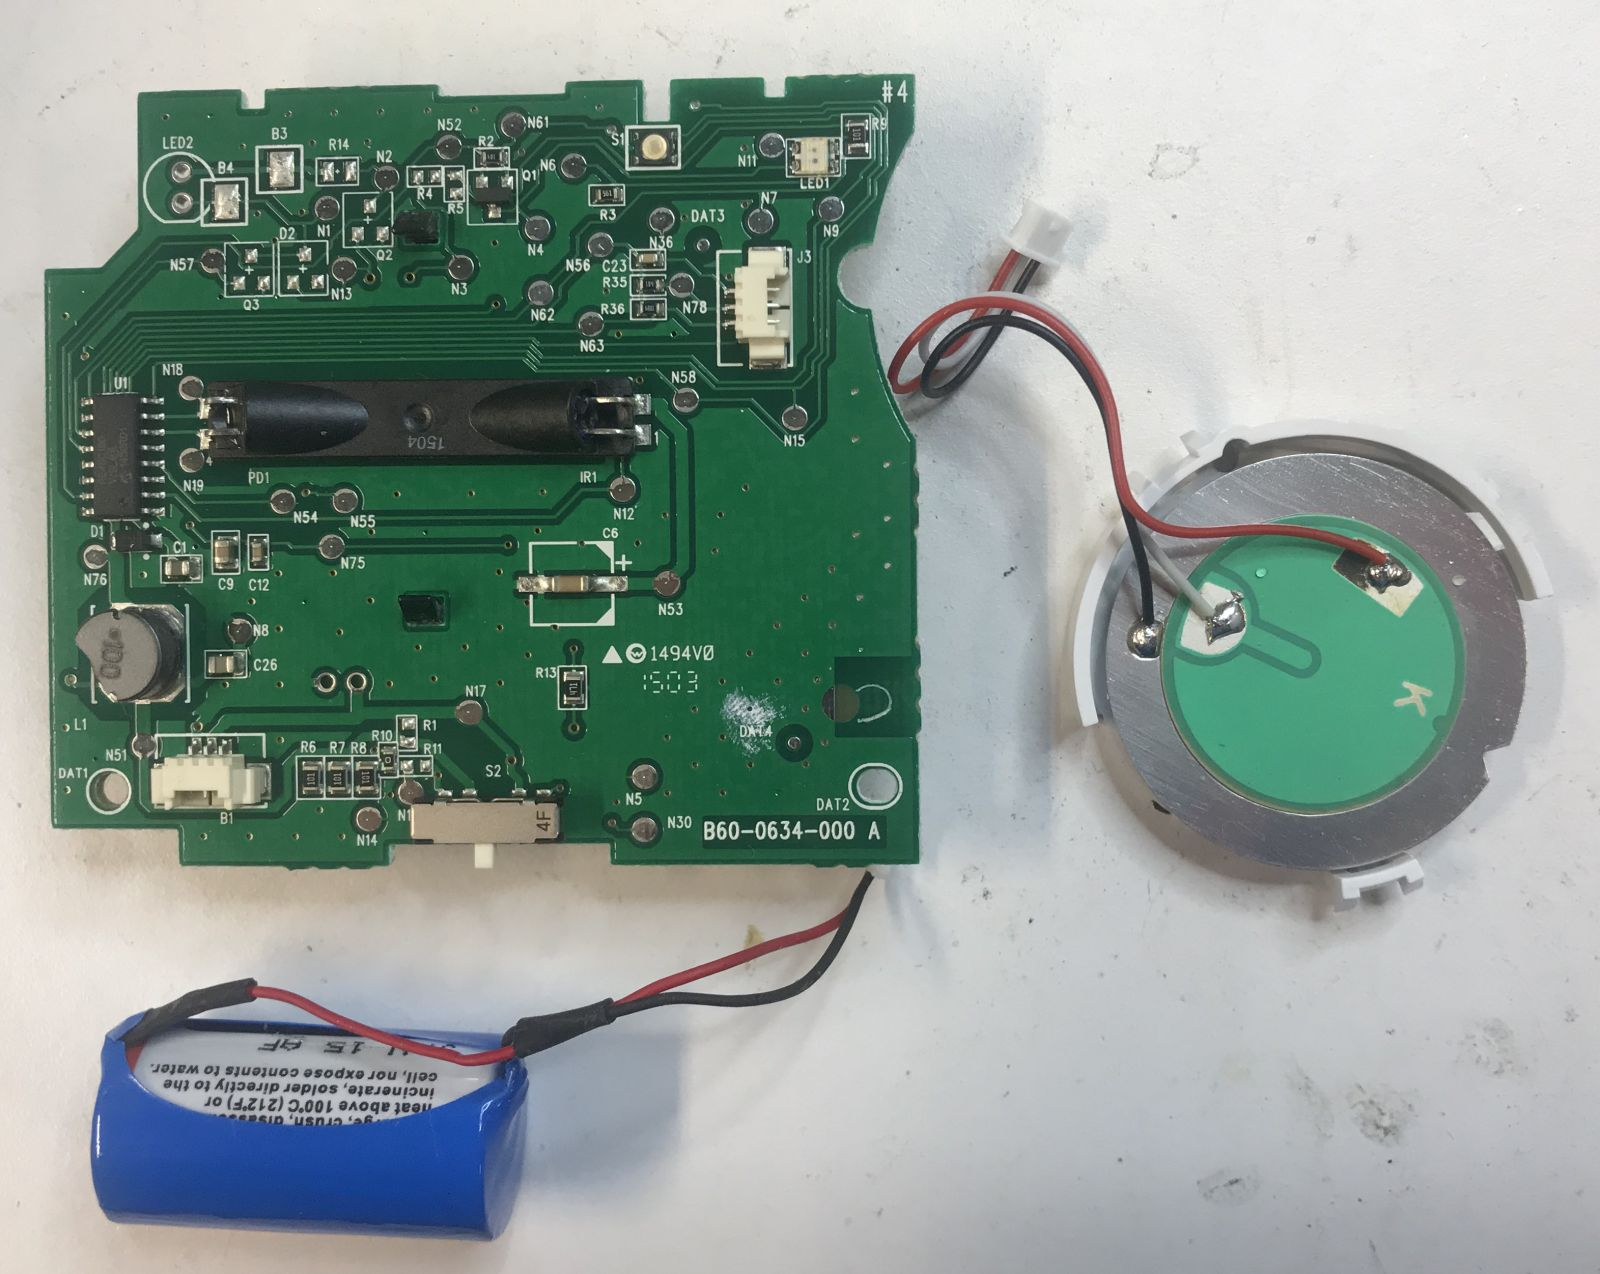
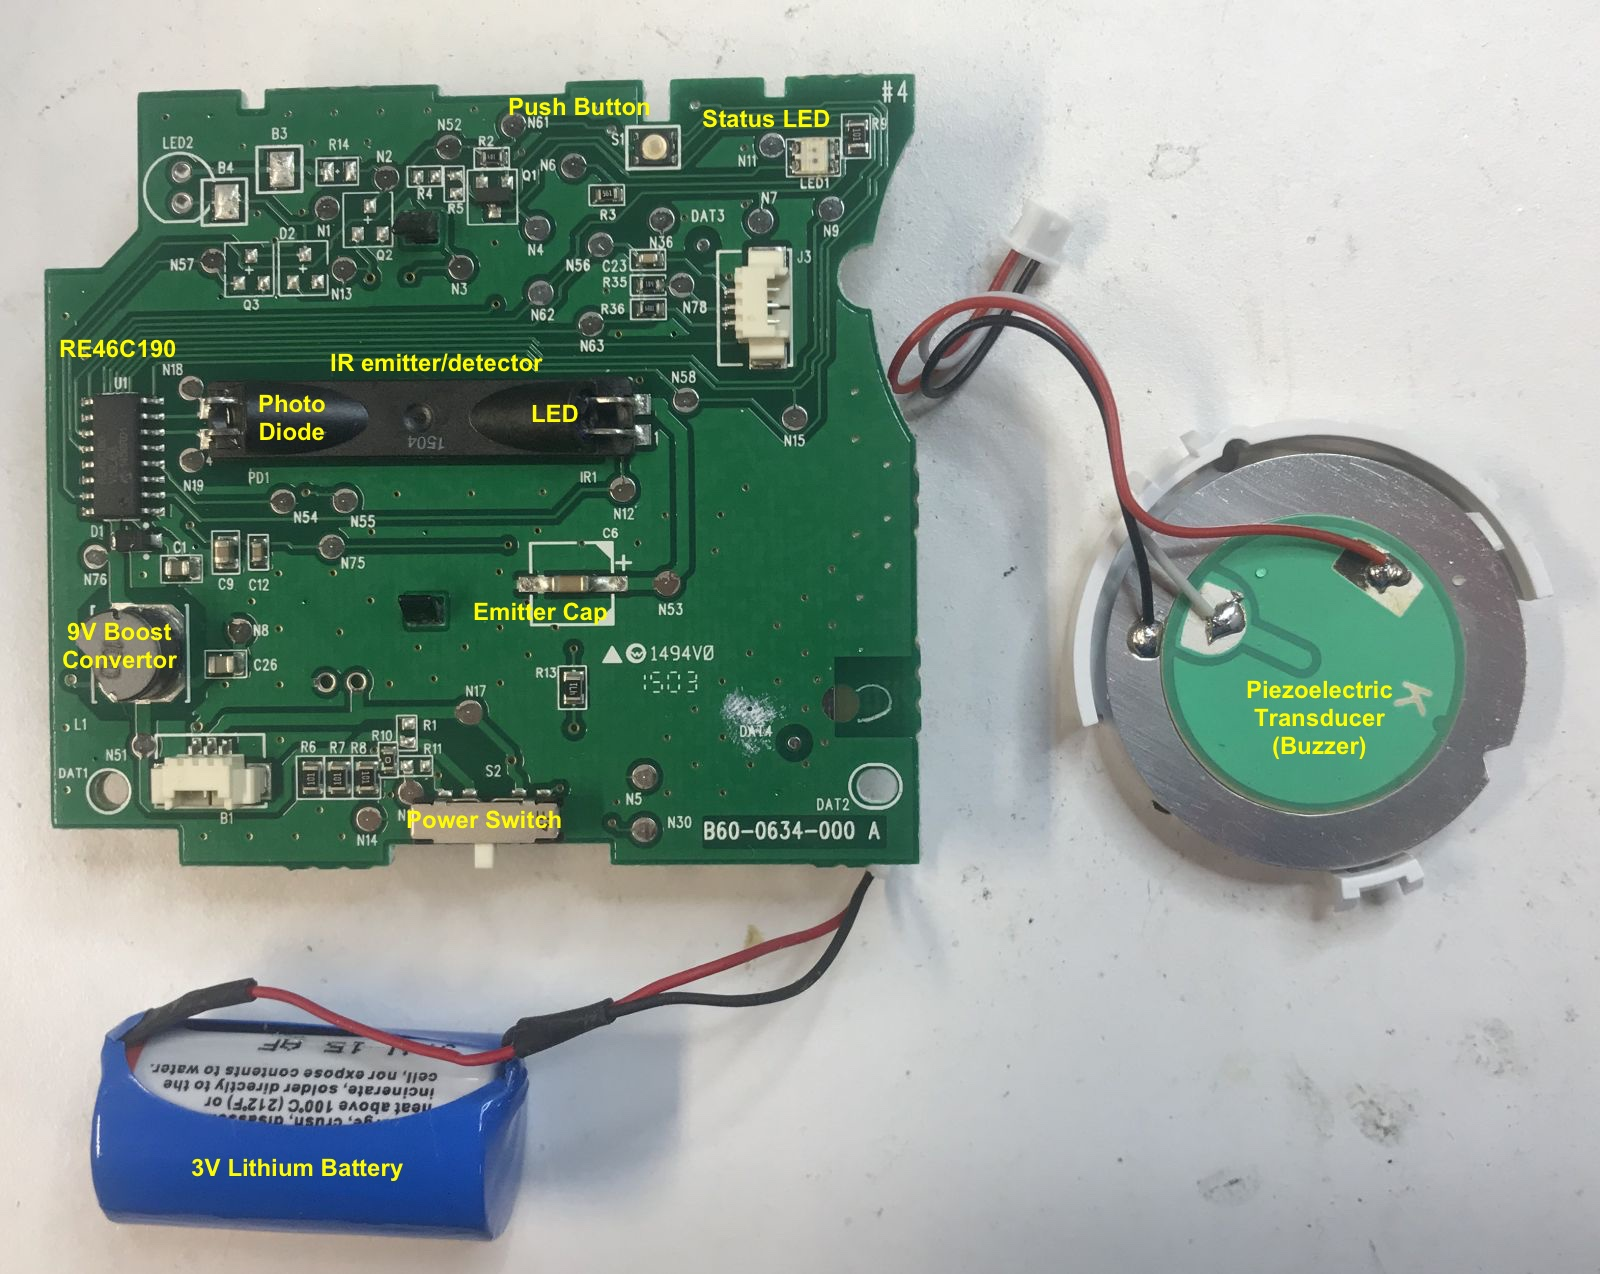
Smoke detector post complete.

diff --git a/_posts/2020-04-04-Smoke-Detector.md b/_posts/2020-04-04-Smoke-Detector.md
@@ -1,14 +1,13 @@
 ---
 layout: post
-title: Smoke Detector Disassembly
-date:  2020-04-04 00:00:00 -0700
+title: Taking Apart a Smoke Detector
+date:  2020-04-10 00:00:00 -0700
 categories:
 ---
 
-*Whereby I descend into a rabbit hole...*
-
-The smoke detector in our laundry room (hopefully soon to be hobby room!) started to beep with yesterday,
-even though there was no smoke to be seen. If I'm reading the manual correctly, it's a low battery condition.
+The smoke detector in our laundry room/cat mansion (soon to be hobby room... if the virus lockdown
+goes away) started to beep yesterday, even though there was no smoke to be seen. If I'm reading the 
+manual correctly, it's a low battery condition.
 
 It's one of those good-for-10-years types with non-replacable batteries. We installed it 5 years ago...
 
@@ -16,12 +15,12 @@ Once you switch that thing off, you can't (and are not supposed to) switch it ba
 it away.
 
 In the middle of a shelter-in-place, you have to do *something* so keep yourself busy, so why not take it
-apart and see what's inside?
+apart, see what's inside, and hopefully learn something new?
 
 # Disassembly
 
-I didn't take any *before* pictures, but there's a bunch of plastic click mechanisms to keep things in place
-it's assembled. I used pliers to cut my way through things. Only later did I discover that there are also
+I didn't take any before pictures, but there's a bunch of plastic click mechanisms to keep things in place
+once it's assembled. I used pliers to cut my way through things. Only later did I discover that there are also
 some screws hidding behind glued on paper that make taking it apart a little bit easier.
 
 The first thing to appear was the battery.
@@ -34,11 +33,25 @@ Inside the plastic enclosure are 3 main components:
 * Battery
 * Buzzer
 
+At the bottom of the PCB, you can see how the power switch, at is surrounded by 2 plastic prongs. 
+The mechanism to permanentaly prevent switching the smoke detector back on after it has been disabled is 
+purely mechanical. Once the plastic has been removed, you can easily switch it back on.
+
 ![Major Components](/assets/smoke_detector/1-PCB_in_case.jpg)
 
 Once disassembled, it looks like this:
 
 ![PCB front](/assets/smoke_detector/2-PCB-front.jpg)
+
+
+There are 2 main types of smoke detector: photoelectric and ionization based. There is no best type: 
+the photoelectric ones respond faster to smoke created by smoldering fires while ionization based smoke 
+detectors respond faster to smoke produced by fanning flames. 
+
+For best protection, the US Fire Administration [recommends using both types](https://www.usfa.fema.gov/about/smoke_alarms_position.html)!
+
+In the center of my smoke detector is an integrated IR emitter and detector, so we're dealing with a
+photoelectric one here.
 
 The back of the PCB contains what I call the smoke chamber:
 
@@ -48,52 +61,116 @@ The smoke chamber attaches to the PCB with 2 plastic clamps:
 
 ![Smoke Detection Chamber](/assets/smoke_detector/6-smoke-chamber.jpg)
 
-The smoke chamber is surrounded by some fine mesh fabric, probably to prevent tiny mosquitos from entering?
+It is surrounded by some fine mesh fabric, probably to prevent tiny mosquitos from entering?
 There are narrow slits to let air in and out, and there are corners so that stray light doesn't enter
 the center of the chamber:
 
 ![Smoke Detect Chamber Inside](/assets/smoke_detector/8-smoke-chamber-internal.jpg)
 
+Here's a close-up of the IR emitter detector:
+
+![IR detector emitter top](/assets/smoke_detector/7-IR-LED-and-Detector.jpg)
+
+![IR detector emitter bottom](/assets/smoke_detector/9-IR-LED-and-Detector.jpg)
+
+I'm not sure if smoke in the smoke chamber will result in more or less IR light being
+reflected into the detector...
+
 # Electronics
 
-The PCB is pretty simple.
+Here's the front of the PCB again. It is pretty simple.
 
-There are 2 main types of smoke detector: photoelectric and ionization based. There is no best type: 
-the photoelectric ones respond faster to smoke created by smoldering fires while ionization based smoke 
-detector respond faster to smoke produced by fanning flames. 
-
-For best protection, the US Fire Administration [recommends using both types](https://www.usfa.fema.gov/about/smoke_alarms_position.html)!
-
-In the center of my smoke detector is an integrated IR emitter and detector, so we're dealing with an
-photoelectric type here:
-
-![PCB Components](/assets/smoke_detector/4-PCB-only-front.jpg)
+![PCB front](/assets/smoke_detector/2-PCB-front.jpg)
 
 We're seeing:
 
-* the black detector
+* the IR emitter/detector
 * an [RE46C190](http://ww1.microchip.com/downloads/en/DeviceDoc/RE46C190-DS-20002271C-Final1.pdf) IC from Microchip
 * a power switch
-* a push button
+* a push button to (temporarily) silence the smoke detect again
 * connectors for the battery and beeper
 * a switched power supply
 
 The RE46C190 is a dedicated ASIC for these kind of smoke detectors. No other active components are needed to build one.
+Even at a low volume/high markup vendor like DigiKey, it sells for only $0.99 a piece when buying a minimum of 2600, so
+the real cost for mass production is probably significantly lower.
 
 In normal operation, it triggers the IR emitter and detector once every 10 seconds and stays in deep sleep in between to
 save power. When it detects smoke, the polling rate is increased to verify that there is indeed an alarm condition.
 
-When there are 3 consecutive alarm conditions, the the beeper is enabled.
+When there are number of consecutive alarm conditions, the beeper is enabled.
 
-When the sensor is active, it enables a voltage boost convertor that charges capacitor IRcap (C6 on the PCB) for 10ms.
+The boost convertor is an important piece of the whole machinery: powered by a 3V battery, it's used to create a ~6V
+voltage for the LED emitter pulse, and a 9V voltage to trigger the piezoelectric transducer.
+
+Vbst is the output of the boost convertor. Here you can see the full cycle from powering up, to sending IR pulses, to
+transmitting 3 beeps on the buzzer:
+
+![Vbst waveform](/assets/smoke_detector/osc0-Vbst-alarm.png)
+
+Here you see the Vbst, Vemitter, and Vdetector on a larger time scale:
+
+![Vbst-Vemt-Vdet waveform](/assets/smoke_detector/osc2-Vbst-Vled-Vdet.png)
+
+After 3 initial measurements, the alarm engages. Once that happens, the detector will recheck once every second until
+the smoke is gone. It's hard to see on the image above, but when the alarm is engaged, Vbst is constant at 9V: the
+output falls back to 6V right around the time of the measurement.
+
+
+To active the emitter, the controller charges capacitor IRcap (C6 on the PCB) for 10ms.
 It then drains this capacitor for a time between 100 and 400us through the infra-red LED. During that time, the current
-through the IR detector is integrated, digitized, and compared against a reference value that was programmed into the
+through the IR detector is integrated, digitized, and rcompared against a reference value that was programmed into the
 IC during calibration.
+
+The voltage on the detector is on the order of ~100mV.
+Each controller has an on-chip EEPROM for various settings, including the sensitivity of the IR detector. During
+production, each smoke detector is individually calibrated to set the correct point at which is supposed to started
+making a ruckus.
 
 # Buzzer - Piezoelectric Transducer
 
+I know nothing about piezoelectric transducers, other than that they're loud and annoying when they go off in a
+smoke detector, preferably in the middle of the night.
+
+Piezoelectric transducers can work as a loudspeaker or as a microphone: when a voltage is applied, they produce
+sound, and when they are subjected to noise, they'll generate a voltage. So far so good.
+
+![Transducer with feedback wire](/assets/smoke_detector/10-transducer.jpg)
+
+But I was suprised to see that the transducer had 3 leads instead of 2. This doesn't have to be the case: there are
+plenty of transducers with only 2 leads. In that case, the electronics will drive the transducer with an oscillator
+to create the desired buzzer frequency.
+
+However, that's not necessarily ideal for an alarm: each buzzer has its own resonant frequency, and you get the
+highest volume, a good thing for an alarm, when you stimulate the transducer at exactly that frequency. 
+
+Rather than programming this frequency in the chip, people use transducers with a feedback electrode: the main wire
+is used to stimulate the transducer and the feedback electrode measures what was stimulated. When these 2 
+operate 180 degrees out of phase, you can create a circuit where the transducer itself is part of the feedback loop.
+
+Result: the buzzer will always beep at its resonant, most efficient, frequency!
+
+This is the so-called "Self Drive Mode" of a transducer. It uses a [Hartley oscillator](https://en.wikipedia.org/wiki/Hartley_oscillator).
+
+![Self-Drive Circuit](/assets/smoke_detector/self-drive-circuit.png)
+
+You can read all about this [Murata's Piezoelectric Sound Components Application Manual](https://www.murata.com/~/media/webrenewal/support/library/catalog/products/sound/p15e.ashx).
+
+One surprising thing about this feedback wire is that the voltage on it is much higher than the 9V that was used
+to stimulate it: I measured a peak to peak amplitude of 28V, which falls just within the range that's supported
+by the controller IC.
+
+![Vbst-Vemt-Vdet waveform](/assets/smoke_detector/osc4-piezo-feedback.png)
+
+# Conclusion
+
+Unexpectedly, I learned something completely new about transducers! Even the most mundane product can have interesting 
+aspects once you start looking under the hood.
+
+# For your Reading and Viewing Pleasure
 
 * [Uses for piezo transducers from old smoke alarms](https://www.youtube.com/watch?v=5UAL4QVR17s)
 * [Stackoverflow - What's the third wire on a piezo transducer](https://electronics.stackexchange.com/questions/18212/whats-the-third-wire-on-a-piezo-buzzer)
 * [Ask MAKE: Three leaded piezo?](https://makezine.com/2009/12/03/ask-make-three-legged-piezo/)
 * [Murata - Piezoelectric Sound Components Application Manual](https://www.murata.com/~/media/webrenewal/support/library/catalog/products/sound/p15e.ashx)
+
